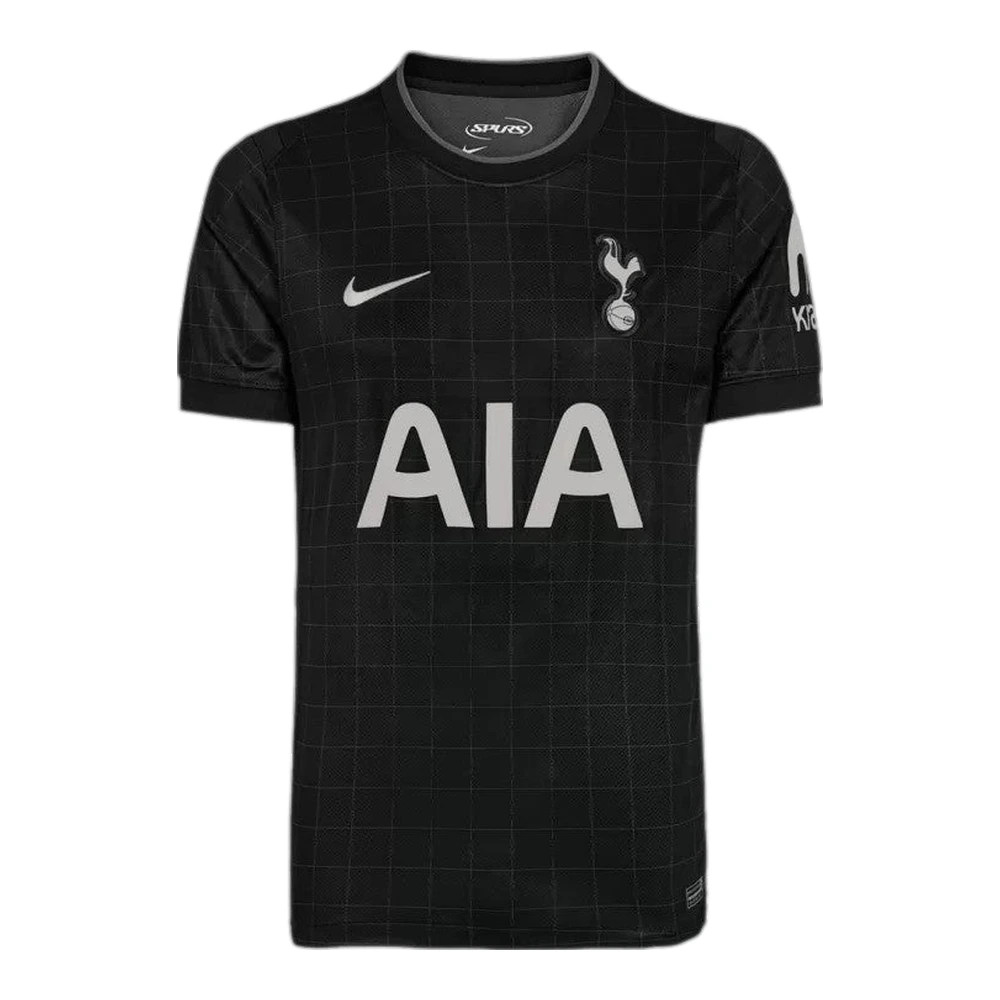
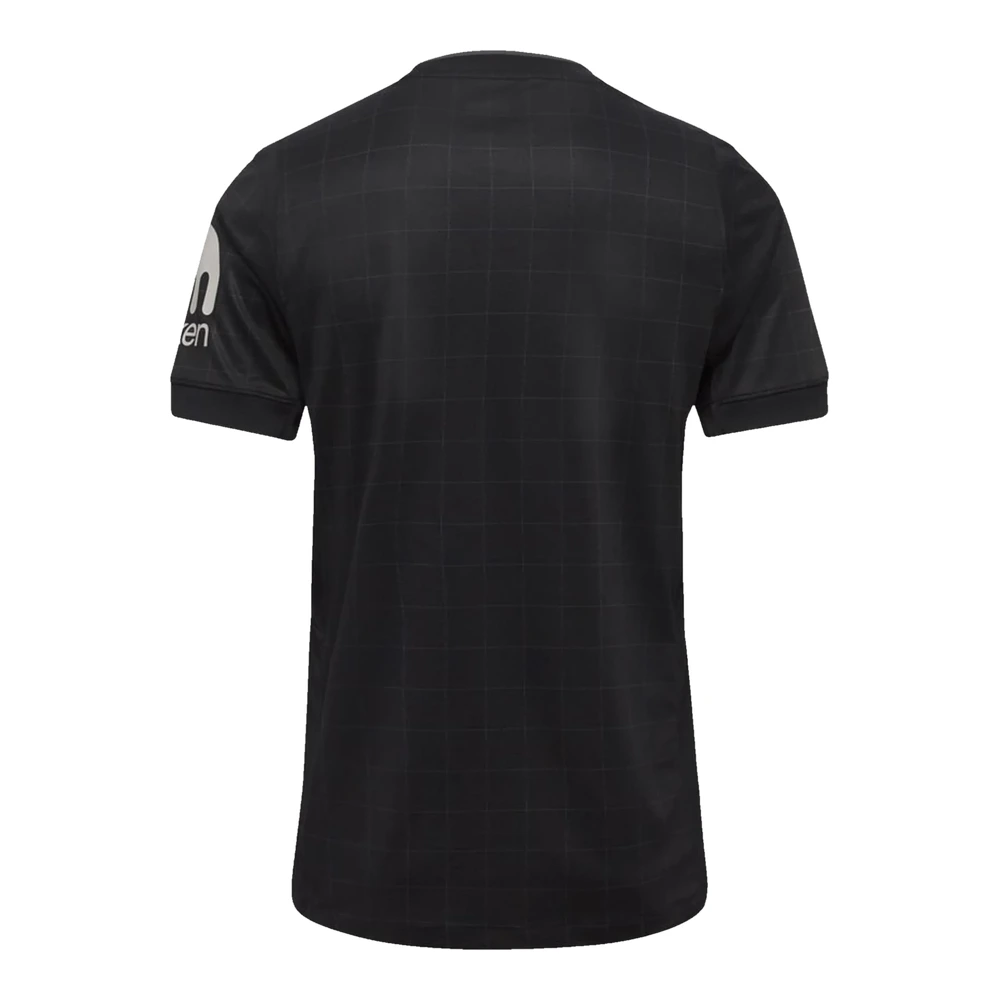
Ajoute le verso du Tottenham Domicile 2026-27 et remplace celui de l'Extérieur 2025-26

Changed region(s): [[0.155, 0.031, 0.837, 0.961]]

diff --git a/index.html b/index.html
@@ -1480,7 +1480,7 @@ const products = [
   { id:412, club:'Everton',                name:'Maillot Third',     season:'2025-26', league:'Premier League', type:'standard', emoji:'👕', mainColor:'#141414', accentColor:'#F5C518', flocageColor:'#FFFFFF', frontImage:'images/everton-3rd-2526-1.webp', carouselImages:['images/everton-3rd-2526-1.webp','images/everton-3rd-2526-2.webp'] },
   { id:904, club:'Everton', name:'Maillot Third', season:'2026-27', league:'Premier League', type:'standard', emoji:'👕', mainColor:'#1D3A3A', accentColor:'#E8A33D', flocageColor:'#111111', frontImage:'images/everton-3rd-2627-1.webp', carouselImages:['images/everton-3rd-2627-1.webp','images/everton-3rd-2627-2.webp'] },
   { id:413, club:'Burnley',                name:'Maillot Domicile',  season:'2025-26', league:'2ème Division', subLeague:'Angleterre — Championship', type:'standard', emoji:'👕', mainColor:'#6C1D33', accentColor:'#7FD4D9', flocageColor:'#7FD4D9', frontImage:'images/burnley-home-2526-1.webp', carouselImages:['images/burnley-home-2526-1.webp','images/burnley-home-2526-2.webp'] },
-  { id:351, club:'Tottenham',             name:'Maillot Domicile', season:'2026-27', league:'Premier League', type:'standard', emoji:'👕', mainColor:'#FFFFFF', accentColor:'#132257', flocageColor:'#132257', frontImage:'images/tottenham-home-2627-1.webp', carouselImages:['images/tottenham-home-2627-1.webp','images/tottenham-home-2627-6.webp'] },
+  { id:351, club:'Tottenham',             name:'Maillot Domicile', season:'2026-27', league:'Premier League', type:'standard', emoji:'👕', mainColor:'#FFFFFF', accentColor:'#132257', flocageColor:'#132257', frontImage:'images/tottenham-home-2627-1.webp', carouselImages:['images/tottenham-home-2627-1.webp','images/tottenham-home-2627-2.webp','images/tottenham-home-2627-6.webp'] },
   { id:352, club:'Tottenham',             name:'Maillot Extérieur', season:'2026-27', league:'Premier League', type:'standard', emoji:'👕', mainColor:'#0E1B3D', accentColor:'#7B4FCB', flocageColor:'#FFFFFF', frontImage:'images/tottenham-ext-2627-1.webp', carouselImages:['images/tottenham-ext-2627-1.webp','images/tottenham-ext-2627-3.webp'] },
   { id:353, club:'Tottenham',             name:'Maillot Domicile', season:'2025-26', league:'Premier League', type:'standard', emoji:'👕', mainColor:'#FFFFFF', accentColor:'#132257', flocageColor:'#132257', frontImage:'images/tottenham-home-2526-1.webp', carouselImages:['images/tottenham-home-2526-1.webp','images/tottenham-home-2526-2.webp'] },
   { id:354, club:'Chelsea',               name:'Maillot Domicile', season:'2026-27', league:'Premier League', type:'standard', emoji:'👕', mainColor:'#034694', accentColor:'#FFD100', flocageColor:'#FFD100', frontImage:'images/chelsea-home-2627-1.webp', carouselImages:['images/chelsea-home-2627-1.webp','images/chelsea-home-2627-2.webp'] },
